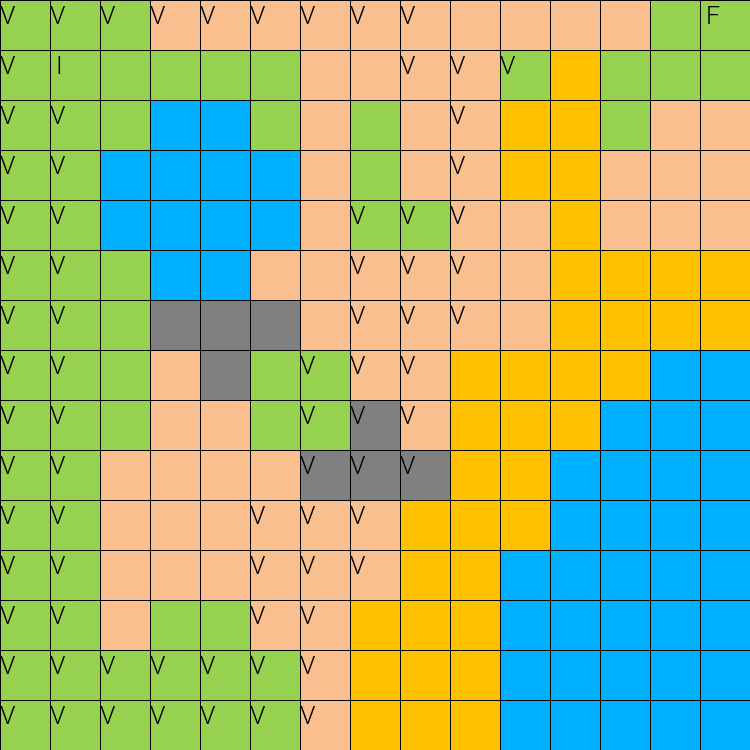
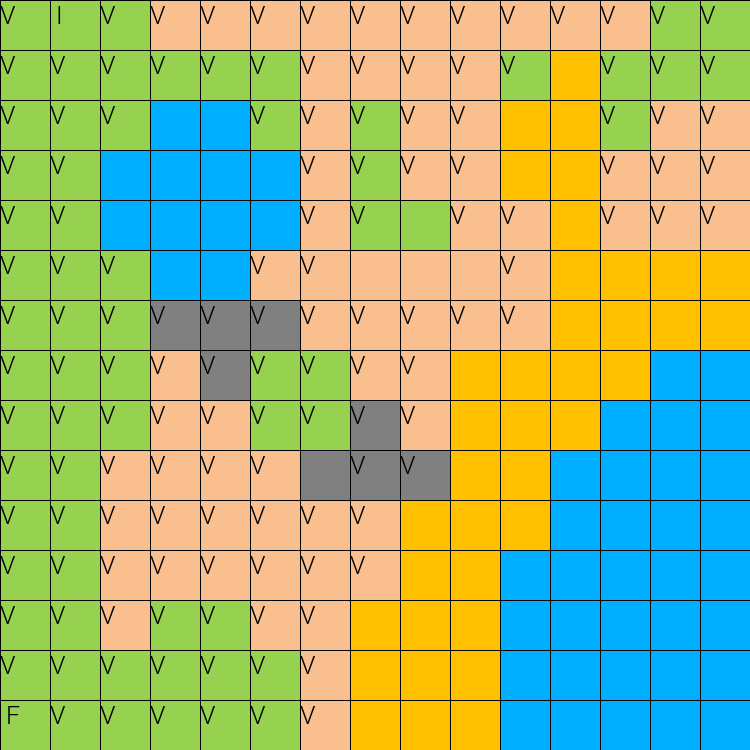
Movimientos en agente FALTA MEMORIA Y ARBOL , TAMBIEN ALAMCENAR LOS DE DESICION

diff --git a/Practica 1/MazeAgent.py b/Practica 1/MazeAgent.py
@@ -155,7 +155,7 @@ class Stage:
 class Agent(MovsTerrainCosts, Stage):  # Create the class Agent
 
     def __init__(self, Name, TypeAgent, InitalCords, stageText, FinalCords, AgentSensor=None, AgentMovs=None):
-            # Memory
+        # Memory
         self.memoryCells = []
         # Memory Decisions
         self.memoryCellsDecisions = []
@@ -177,9 +177,11 @@ class Agent(MovsTerrainCosts, Stage):  # Create the class Agent
             self.InitialCords = giveCords(InitalCords)
             self.ActualCords = giveCords(InitalCords)
             self.FinalCords = giveCords(FinalCords)
+            print(self.FinalCords)
+            print(self.InitialCords)
             self.Stage.stageToImage(self.Name)
-            self.Stage.textToImage(self.InitialCords[0], self.InitialCords[1], " I", self.Name + ".png")
-            self.Stage.textToImage(self.FinalCords[0], self.FinalCords[1], " F", self.Name + ".png")
+            self.Stage.textToImage(self.InitialCords[1], self.InitialCords[0], " I", self.Name + ".png")
+            self.Stage.textToImage(self.FinalCords[1], self.FinalCords[0], " F", self.Name + ".png")
 
     def addToMemory(self, coords):
         if not self.existsInMemory(coords):

diff --git a/Practica 1/example.py b/Practica 1/example.py
@@ -8,7 +8,7 @@ from MazeAgent import *
 class Player(object):
 
     def __init__(self):
-        self.rect = pygame.Rect(agent1.InitialCords[0] * 50, agent1.InitialCords[1] * 50, 50, 50)
+        self.rect = pygame.Rect(agent1.InitialCords[1] * 50, agent1.InitialCords[0] * 50, 50, 50)
 
     def move(self, dx, dy):
         if dx != 0:
@@ -53,7 +53,7 @@ class Wall(object):
 
 os.environ["SDL_VIDEO_CENTERED"] = "1"
 pygame.init()
-agent1 = Agent("A2", TypeAgent.sasquatch, InitalCords=(2, 'B'), stageText=readFile("lab2.txt"), FinalCords=(15, 'A'))
+agent1 = Agent("A2", TypeAgent.sasquatch, InitalCords=(1, 'B'), stageText=readFile("lab2.txt"), FinalCords=(15, 'A'))
 pygame.display.set_caption("Get to the red square!")
 width = len(agent1.Stage.stage) * 50
 height = len(agent1.Stage.stage) * 50
@@ -74,7 +74,7 @@ for crow, row in enumerate(level):  # x
         if agent1.isValidPosition((ccol, crow)) == 0:
             Wall((crow * 50, ccol * 50))
         elif crow == final[0] and ccol == final[1]:
-            end_rect = pygame.Rect(crow * 50, ccol * 50, 50, 50)
+            end_rect = pygame.Rect(ccol * 50, crow * 50, 50, 50)
 
 running = True
 back = pygame.image.load(agent1.Name + ".png")
